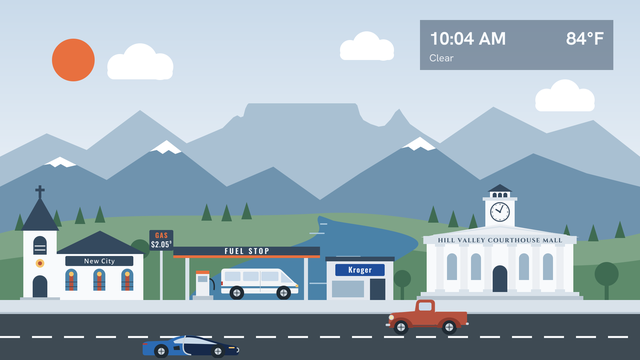
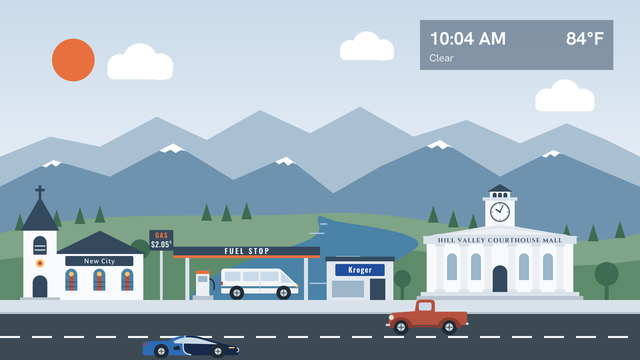
Add second mountain tiles, a buggy roof, and black eyes for the gray cat
- The far and near mountains each have a second, different 1920 px
  tile (far_b and near_b). Their strips hold A, B, A and slide by
  3840 px, so the mountains repeat half as often. Table Mountain is
  only on the first far tile, so it now comes by about every 13
  minutes. The new tiles have winter versions with snow caps.
- The VW buggy has a dark soft top over the roll bar.
- The gray cat's eyes are black.

Claude-Session: https://claude.ai/code/session_01F1XyeJbkdn1kDtDDVeB88k

diff --git a/tools/generate_images.py b/tools/generate_images.py
@@ -60,7 +60,7 @@ def season_palette(pal, season):
 # listed, or a season that is not in its list, uses the summer drawing saved
 # without a season in the file name. components/MainScene.brs has the same
 # list in m.seasonalLayers.
-SEASONAL = {"far": ["winter"], "near": ["winter"], "hills": SEASONS, "town_a": SEASONS, "town_b": SEASONS, "town_c": SEASONS, "town_d": SEASONS}
+SEASONAL = {"far": ["winter"], "far_b": ["winter"], "near": ["winter"], "near_b": ["winter"], "hills": SEASONS, "town_a": SEASONS, "town_b": SEASONS, "town_c": SEASONS, "town_d": SEASONS}
 
 # Store sign fonts. Most are variable fonts (one file covers a range of weights).
 # Kaushan Script and Alegreya Sans Medium have one weight, so the weight value is
@@ -176,6 +176,26 @@ def near(p, season):
     return s + f'''<g fill="{p["snow"]}"><polygon points="180,470 130,495 150,492 165,502 182,492 200,502 230,495"/>
 <polygon points="500,420 448,455 470,450 488,462 506,450 526,462 545,455"/>
 <polygon points="1260,410 1203,445 1225,440 1242,452 1262,440 1284,452 1308,445"/></g>'''
+
+# Second far and near mountain tiles, so the mountains repeat half as often.
+# Their edge heights match the first tiles (470 for far, 560 for near), so the
+# tiles join without a seam in any order. There is no Table Mountain here.
+FAR_B_PTS = [(0,470),(150,410),(300,440),(470,350),(620,420),(780,330),(930,400),(1080,320),(1240,410),
+             (1400,360),(1560,430),(1700,370),(1820,420),(1920,470)]
+def far_b(p, season):
+    pts = " ".join(f"{x},{y}" for x, y in FAR_B_PTS)
+    s = f'<polygon fill="{p["far"]}" points="0,720 {pts} 1920,720"/>'
+    if season == "winter":
+        s += snow_caps(FAR_B_PTS, 0.4, p["snow"])
+    return s
+
+NEAR_B_PTS = [(0,560),(160,480),(330,530),(520,430),(700,540),(860,470),(1000,580),(1140,500),(1320,420),
+              (1500,530),(1660,450),(1800,510),(1920,560)]
+def near_b(p, season):
+    pts = " ".join(f"{x},{y}" for x, y in NEAR_B_PTS)
+    s = f'<polygon fill="{p["mid"]}" points="0,760 {pts} 1920,760"/>'
+    # Small snow caps on the highest peaks in other seasons, like the first tile
+    return s + snow_caps(NEAR_B_PTS, 0.5 if season == "winter" else 0.22, p["snow"])
 
 TREES = [(60,692),(110,686),(170,680),(240,672),(300,668),(620,662),(680,664),(740,658),
          (1300,668),(1360,682),(1420,692),(1700,724),(1780,724),(1860,714)]
@@ -679,7 +699,8 @@ def sky(p):
             f'<stop offset="0.62" stop-color="{p["horizon"]}"/></linearGradient></defs><rect width="8" height="1080" fill="url(#g)"/>')
 
 # Layer crops: name -> (function, y, height)
-CROPS = {"clouds": (clouds, 90, 255), "far": (far, 295, 425), "near": (near, 400, 360),
+CROPS = {"clouds": (clouds, 90, 255), "far": (far, 295, 425), "far_b": (far_b, 295, 425),
+         "near": (near, 400, 360), "near_b": (near_b, 400, 360),
          "hills": (hills, 600, 310), "town_a": (town, 550, 530), "town_b": (town_b, 550, 530),
          "town_c": (town_c, 550, 530),
          "town_d": (town_d, 550, 530)}
@@ -853,6 +874,8 @@ buggy = (f'<path d="M8,74 L8,62 Q10,54 22,52 L66,52 L70,58 L178,58 Q226,58 240,7
          f'<path d="M14,84 A38,38 0 0 1 90,84 L82,84 A30,30 0 0 0 22,84 Z" fill="{BGD}"/>'
          f'<path d="M160,84 A38,38 0 0 1 236,84 L228,84 A30,30 0 0 0 168,84 Z" fill="{BGD}"/>'
          f'<path d="M84,58 L92,22 L124,22 L128,58" stroke="#34495E" stroke-width="6" fill="none" stroke-linejoin="round"/>'
+         # Soft top from the roll bar forward to the top of the windshield
+         f'<path d="M86,24 Q90,14 100,14 L172,22 Q178,23 177,28 L90,26 Z" fill="#2F3E4C"/>'
          f'<rect x="112" y="36" width="12" height="22" rx="3" fill="#34495E"/>'
          f'<polygon points="158,58 168,30 174,30 166,58" fill="{GLASS}"/><line x1="166" y1="58" x2="176" y2="28" stroke="#34495E" stroke-width="3"/>'
          f'<rect x="4" y="54" width="18" height="16" rx="3" fill="#5B6770"/><rect x="0" y="66" width="10" height="4" rx="2" fill="#9CA6B1"/>'
@@ -877,7 +900,7 @@ def cat(body, dark, eyes, stripes=False):
         s += "".join(f'<line x1="{x}" y1="6.5" x2="{x}" y2="9" stroke="{dark}" stroke-width="1"/>' for x in (18.5, 20.5, 22.5))
     return f'<g transform="scale(2)">{s}</g>'
 save(cat("#22272B", "#22272B", "#F6C46A"), "0 0 60 64", 60, 64, "cat_black.png")
-save(cat("#8E979E", "#6E7A85", "#2ECC71"), "0 0 60 64", 60, 64, "cat_gray.png")
+save(cat("#8E979E", "#6E7A85", "#15181B"), "0 0 60 64", 60, 64, "cat_gray.png")
 save(cat("#9A6B42", "#2B2118", "#F6C46A", True), "0 0 60 64", 60, 64, "cat_tabby.png")
 
 def guinea_pig(body, spots):
@@ -981,7 +1004,10 @@ def preview(pal, season, clock, temp, cond, fx=None, x=1920, plane=None, pets=()
         body = fn(*args)
         return body + "".join(f'<g transform="translate({dx},0)">{body}</g>' for dx in (1920, 3840, 5760))
     # The full 7680 px street: town sections A, B, C, and D
-    strip = (four(clouds, p, season) + four(far, p, mtn) + four(near, p, mtn) + four(hills, p, season)
+    def ab(fn_a, fn_b, *args):
+        a, b = fn_a(*args), fn_b(*args)
+        return a + "".join(f'<g transform="translate({dx},0)">{body}</g>' for dx, body in ((1920, b), (3840, a), (5760, b)))
+    strip = (four(clouds, p, season) + ab(far, far_b, p, mtn) + ab(near, near_b, p, mtn) + four(hills, p, season)
              + town(p, season) + f'<g transform="translate(1920,0)">{town_b(p, season)}</g>'
              + f'<g transform="translate(3840,0)">{town_c(p, season)}</g>'
              + f'<g transform="translate(5760,0)">{town_d(p, season)}</g>')

diff --git a/README.md b/README.md
@@ -38,12 +38,12 @@ These images are drawn by `tools/generate_images.py` from the same artwork the s
 
 ## Features
 
-- Five scenery layers that scroll at different speeds: clouds, far mountains, near mountains, hills with the river, and the town with the street. The center far mountain has a flat top, in the shape of Table Mountain in South Africa.
+- Five scenery layers that scroll at different speeds: clouds, far mountains, near mountains, hills with the river, and the town with the street. The far and near mountains each have two different images, so the mountains repeat only about every 13 minutes (far) and 5 minutes (near). The center far mountain has a flat top, in the shape of Table Mountain in South Africa.
 - The houses and shops have different wall colors. The houses are yellow, green, blue, pink, tan, lavender, mint, and white. The shops use soft colors such as peach, cream, aqua, and light green. Like the rest of the scene, the colors are darker at dusk and night.
 - The town has four sections. The buildings are different heights: some houses and shops have two or three floors. The first has three houses (numbered 5401, 135, and 5334), a donut shop called Long's Donuts, a book store called Forever Books, a computer store called E-gineering, and a diner called Luke's. Luke's is a reference to Gilmore Girls: in the show, the diner is in the old Williams Hardware building, so "Williams Hardware" is lettered in gray on its window. The second has a church named New City, a gas station with a small Kroger store, and the Hill Valley Courthouse Mall from Back to the Future, with its clock stopped at 10:04. The third has five more houses (numbered 312, 402, 527, 612, and 1120), an ice cream shop called Cabana's, an art supply store with a small painter's palette icon in the window, a photography store with a small camera icon in the window, a pet shop with a fish bowl, a puppy, and a kitten on a table in the window, and an Italian restaurant called Mama BreeBree's. The fourth has Holy Cross school, a house numbered 67, a church named ITS, a Chick-fil-A with a drive-through window, Covenant school, and Cedarville, a university building with columns and its name in blue and yellow letters in a college letterman style.
 - A car is parked at the gas station. The car and the direction it faces are chosen at random each time the screensaver starts.
 - Each store sign uses its own font.
-- Six cars: a sports car in the style of a Bugatti, a sedan, a VW dune buggy, a van, a Jeep, and an old truck. Each has its own speed, and the wheels spin at a rate that matches it. The sports car is the fastest.
+- Six cars: a sports car in the style of a Bugatti, a sedan, a VW dune buggy with a soft top, a van, a Jeep, and an old truck. Each has its own speed, and the wheels spin at a rate that matches it. The sports car is the fastest.
 - Three cats (black, gray, and a brown and black striped tabby) and two guinea pigs (one black and orange, one white with orange spots) sit on the sidewalk. They are placed at random spots each time the screensaver starts.
 - Two lanes. The near lane drives left to right at full size. The far lane drives right to left and draws the cars slightly smaller.
 - A small Cessna airplane flies across the sky now and then, about every 1 to 3 minutes, in either direction. It flies at the distance of the far mountains, so it is small and its speed matches that distance: it takes about 17 seconds to cross the screen. At dusk and night its wingtip light is on, green when it flies right and red when it flies left, as on a real plane (green is on the right wingtip and red on the left). A white tail light blinks. At night both lights are brighter, with a wider glow. It does not fly in rain, snow, fog, or thunderstorms.
@@ -113,7 +113,7 @@ All settings are at the top of `init()` in `components/MainScene.brs`.
 |---|---|
 | `m.LAT`, `m.LON` | Location for the weather. The default is ZIP code 46220 (Indianapolis). Roku does not give apps the device's ZIP code, so the location must be set here. |
 | `m.layerSpeeds` | Scroll speed of each scenery layer, in pixels per second. |
-| `m.layerWidths` | Width of each scenery layer before it repeats. The town is 7680 because it is four different 1920 pixel sections. |
+| `m.layerWidths` | Width of each scenery layer before it repeats. The far and near mountains are 3840 because each is two different 1920 pixel images. The town is 7680 because it is four different 1920 pixel sections. |
 | `m.cameraSpeed` | Must match the `town` layer speed. Cars use it so their speed looks correct relative to the street. |
 | `m.carDefs` | Each car's image size, wheel positions, wheel radius, and `ground` speed in pixels per second. |
 | `m.planeSpeed` | The airplane's own speed at the distance of the far mountains, in pixels per second. The comment above it in `MainScene.brs` shows how it was worked out. |

diff --git a/AGENTS.md b/AGENTS.md
@@ -29,6 +29,7 @@ These apply to code, comments, commit messages, README.md, and this file.
 - The color palettes for day, dusk, and night are in the `P` dictionary near the top of the generator. Planned seasonal palettes should be added there.
 - Do not use the E-gineering (E-g) design system colors or fonts in this project unless the owner asks for them. They were removed on purpose. The removed values were #304C5F, #4F7D9B, #F5653D, and #E9EFF6.
 - Each scrolling layer is 1920 pixels wide, and its left and right edges must line up so two copies repeat without a seam. The town layer is four different tiles, `town_a`, `town_b`, `town_c`, and `town_d`. `townStrip` holds A, B, C, D, A and slides by 7680 pixels, which is the `town` value in `m.layerWidths`. All tiles must match each other at both edges, and no building may cross x=0 or x=1920 in any tile. Each tile adds about 4 MB of texture memory, because every tile in the strip is loaded at the same time. With four tiles the town uses about 16 MB. The street drawing (`street()` in the generator) is shared by both tiles; its dash pattern repeats every 96 pixels, which divides 1920 evenly. When changing a layer's shape, make the y value at x=0 equal the y value at x=1920. For curves, also match the slope at both edges.
+- The far and near mountain layers are two tiles each: `far` and `far_b`, `near` and `near_b`. Their strips hold A, B, A and slide by 3840 pixels (the `far` and `near` values in `m.layerWidths`). The B tiles must start and end at the same heights as the A tiles (470 for far, 560 for near) so the tiles join in any order. Only the A far tile has Table Mountain. The README previews draw them as A, B, A, B across the street.
 - Each layer is cropped to a horizontal band to save texture memory. The crop values in `CROPS` in the generator must match the `translation` and `height` of the matching strip in `components/MainScene.xml`.
 - Layers must overlap with no gaps. A lower layer must reach below the top edge of the layer in front of it at every x position, or the sky shows through.
 - The top of the river must start below the top edge of the hills, or it sticks up into the mountains.
